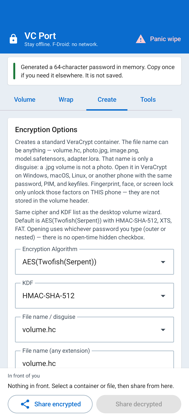
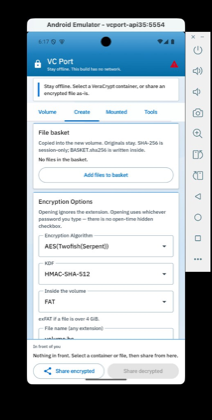
Refresh GitHub README with live emulator shots and stable emulator launch.
Use new Android and iPhone simulator screenshots, show the gallery openly with sponsorship links under the CI badge, and default GUI emulators to angle_indirect so the window stays up.

diff --git a/ports/android/app/src/androidTest/java/dev/shivampingale/vcport/MainActivityUiTest.kt b/ports/android/app/src/androidTest/java/dev/shivampingale/vcport/MainActivityUiTest.kt
@@ -46,7 +46,8 @@ class MainActivityUiTest {
             flags and WindowManager.LayoutParams.FLAG_SECURE != 0
         )
 
-        rule.onNodeWithText("VC Port").assertIsDisplayed()
+        rule.onNodeWithText("VC Port", substring = true).assertIsDisplayed()
+        rule.onNodeWithText("0.3.12", substring = true).assertIsDisplayed()
         rule.onNodeWithText("Stay offline. This build has no network.").assertIsDisplayed()
         rule.onNodeWithTag("panic_wipe").assertIsDisplayed()
         rule.onNodeWithText("Share encrypted").assertIsDisplayed()
@@ -67,7 +68,7 @@ class MainActivityUiTest {
         captureShot("05-mounted.png")
 
         rule.onNodeWithTag("tab_tools").performClick()
-        rule.onNodeWithText("Change volume password").performScrollTo().assertIsDisplayed()
+        rule.onNodeWithText("This build is VC Port", substring = true).performScrollTo()
         captureShot("04-tools.png")
 
         rule.onNodeWithTag("tab_volume").performClick()

diff --git a/ports/android/app/src/main/java/dev/shivampingale/vcport/MainActivity.kt b/ports/android/app/src/main/java/dev/shivampingale/vcport/MainActivity.kt
@@ -948,7 +948,7 @@ class MainActivity : AppCompatActivity() {
                                     Spacer(Modifier.padding(6.dp))
                                     Column {
                                         Text(
-                                            "VC Port",
+                                            "VC Port ${BuildConfig.PORT_VERSION}",
                                             style = MaterialTheme.typography.titleLarge
                                         )
                                         Text(

diff --git a/ports/ios/VCPort/ContentView.swift b/ports/ios/VCPort/ContentView.swift
@@ -159,7 +159,7 @@ struct ContentView: View {
     var sessionChrome: some View {
         sessionTabs
             .disabled(busy)
-            .navigationTitle("VC Port")
+            .navigationTitle("VC Port \(SourcePin.localVersion)")
             .tint(Color(red: 10 / 255, green: 108 / 255, blue: 206 / 255))
             .toolbarBackground(Color(red: 10 / 255, green: 108 / 255, blue: 206 / 255), for: .navigationBar)
             .toolbarBackground(.visible, for: .navigationBar)

diff --git a/README.md b/README.md
@@ -6,6 +6,20 @@ This app is **not** called VeraCrypt. It is **not unbreakable**. It is **100% fr
 
 [![VC Port](https://github.com/ShivamPingaleDev/Veracrypt_port/actions/workflows/vcport.yml/badge.svg?branch=master)](https://github.com/ShivamPingaleDev/Veracrypt_port/actions/workflows/vcport.yml)
 
+**Support (optional)** — same features for everyone; support does not unlock extras or stronger encryption. Links are on GitHub only, not inside the app.
+
+[![GitHub Sponsors](https://img.shields.io/badge/GitHub-Sponsor-ea4aaa?logo=githubsponsors&logoColor=white)](https://github.com/sponsors/ShivamPingaleDev)
+[![Buy Me a Coffee](https://img.shields.io/badge/Buy%20Me%20a%20Coffee-support-yellow?logo=buy-me-a-coffee&logoColor=black)](https://buymeacoffee.com/shivampingaledev)
+[![Ko-fi](https://img.shields.io/badge/Ko--fi-support-ff5e5b?logo=ko-fi&logoColor=white)](https://ko-fi.com/shivampingaledev)
+[![Donate on Liberapay](https://liberapay.com/assets/widgets/donate.svg)](https://liberapay.com/ShivamPingaleDev/donate)
+
+[![Liberapay receives](https://img.shields.io/liberapay/receives/ShivamPingaleDev.svg?logo=liberapay)](https://liberapay.com/ShivamPingaleDev)
+[![Liberapay gives](https://img.shields.io/liberapay/gives/ShivamPingaleDev.svg?logo=liberapay)](https://liberapay.com/ShivamPingaleDev)
+[![Liberapay patrons](https://img.shields.io/liberapay/patrons/ShivamPingaleDev.svg?logo=liberapay)](https://liberapay.com/ShivamPingaleDev)
+[![Liberapay goal](https://img.shields.io/liberapay/goal/ShivamPingaleDev.svg?logo=liberapay)](https://liberapay.com/ShivamPingaleDev)
+
+More: [SUPPORT.md](SUPPORT.md)
+
 ## Download
 
 **0.3.12** — stable alpha (still testing, not a store app).
@@ -33,22 +47,39 @@ You can also **Create** a new locked file. Use the **same password** on a comput
 - Android can scan a **USB disk** (experimental).
 - A forced password still opens the volume — use a long password and keep keyfiles off the phone.
 
-## Screenshots
+## Screenshots (0.3.12)
 
-<details>
-<summary><strong>App UI</strong> (tap to expand — emulator shots, empty tabs)</summary>
+Emulator UI, empty tabs. Click a picture for full size. [How we capture these](ports/docs/screenshots/README.md).
 
-Click a picture for full size. [All shots + how we capture them](ports/docs/screenshots/README.md).
+### Volume
 
-| Tab | Android | iPhone |
-| --- | --- | --- |
-| **Volume** | [<img src="ports/docs/screenshots/thumbs/01-volume.png" alt="Android Volume" width="200">](ports/docs/screenshots/01-volume.png) | [<img src="ports/docs/screenshots/thumbs/ios-01-volume.png" alt="iPhone Volume" width="200">](ports/docs/screenshots/ios-01-volume.png) |
-| **Create** | [<img src="ports/docs/screenshots/thumbs/03-create.png" alt="Android Create" width="200">](ports/docs/screenshots/03-create.png) | [<img src="ports/docs/screenshots/thumbs/ios-03-create.png" alt="iPhone Create" width="200">](ports/docs/screenshots/ios-03-create.png) |
-| **Mounted** | [<img src="ports/docs/screenshots/thumbs/05-mounted.png" alt="Android Mounted" width="200">](ports/docs/screenshots/05-mounted.png) | [<img src="ports/docs/screenshots/thumbs/ios-05-mounted.png" alt="iPhone Mounted" width="200">](ports/docs/screenshots/ios-05-mounted.png) |
-| **Tools** | [<img src="ports/docs/screenshots/thumbs/04-tools.png" alt="Android Tools" width="200">](ports/docs/screenshots/04-tools.png) | [<img src="ports/docs/screenshots/thumbs/ios-04-tools.png" alt="iPhone Tools" width="200">](ports/docs/screenshots/ios-04-tools.png) |
-| **Dark mode** | [<img src="ports/docs/screenshots/thumbs/08-skin-signal.png" alt="Android dark mode" width="200">](ports/docs/screenshots/08-skin-signal.png) | — |
+| Android | iPhone |
+| --- | --- |
+| [<img src="ports/docs/screenshots/thumbs/01-volume.png" alt="Android Volume 0.3.12" width="240">](ports/docs/screenshots/01-volume.png) | [<img src="ports/docs/screenshots/thumbs/ios-01-volume.png" alt="iPhone Volume 0.3.12" width="240">](ports/docs/screenshots/ios-01-volume.png) |
 
-</details>
+### Create
+
+| Android | iPhone |
+| --- | --- |
+| [<img src="ports/docs/screenshots/thumbs/03-create.png" alt="Android Create 0.3.12" width="240">](ports/docs/screenshots/03-create.png) | [<img src="ports/docs/screenshots/thumbs/ios-03-create.png" alt="iPhone Create 0.3.12" width="240">](ports/docs/screenshots/ios-03-create.png) |
+
+### Mounted
+
+| Android | iPhone |
+| --- | --- |
+| [<img src="ports/docs/screenshots/thumbs/05-mounted.png" alt="Android Mounted 0.3.12" width="240">](ports/docs/screenshots/05-mounted.png) | [<img src="ports/docs/screenshots/thumbs/ios-05-mounted.png" alt="iPhone Mounted 0.3.12" width="240">](ports/docs/screenshots/ios-05-mounted.png) |
+
+### Tools
+
+| Android | iPhone |
+| --- | --- |
+| [<img src="ports/docs/screenshots/thumbs/04-tools.png" alt="Android Tools 0.3.12" width="240">](ports/docs/screenshots/04-tools.png) | [<img src="ports/docs/screenshots/thumbs/ios-04-tools.png" alt="iPhone Tools 0.3.12" width="240">](ports/docs/screenshots/ios-04-tools.png) |
+
+### Dark mode (Android)
+
+| Android |
+| --- |
+| [<img src="ports/docs/screenshots/thumbs/08-skin-signal.png" alt="Android dark mode 0.3.12" width="240">](ports/docs/screenshots/08-skin-signal.png) |
 
 ## License (short)
 
@@ -62,7 +93,6 @@ Details: [License.txt](License.txt), [ports/FOSS.md](ports/FOSS.md)
 | --- | --- |
 | Build from source | [PORTING.md](PORTING.md) |
 | Security issues | [SECURITY.md](SECURITY.md) |
-| Optional support | [SUPPORT.md](SUPPORT.md) · [GitHub Sponsors](https://github.com/sponsors/ShivamPingaleDev) |
 | Public talking points | [ports/PUBLIC.md](ports/PUBLIC.md) |
 
 **Contact:** [shivampingaledev@proton.me](mailto:shivampingaledev@proton.me)

diff --git a/ports/docs/screenshots/README.md b/ports/docs/screenshots/README.md
@@ -4,8 +4,8 @@ Real emulator UI — **no passwords, no opened folders, no fake store mockups**.
 
 | Platform | How captured |
 | --- | --- |
-| **Android** | Compose `captureToImage` on AVD `vcport-api35`. `FLAG_SECURE` stays on (`adb screencap` is black on purpose). |
-| **iPhone** | `testPublishTabScreenshots` on iPhone Simulator — window draw, empty tabs only. |
+| **Android** | Emulator window captures (`vcport-api35`). `FLAG_SECURE` stays on (`adb screencap` is black on purpose). |
+| **iPhone** | iPhone Simulator window captures (0.3.12 in the title bar). Empty tabs only. |
 
 **Refresh everything:**
 
